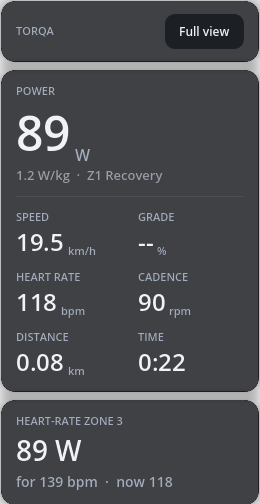
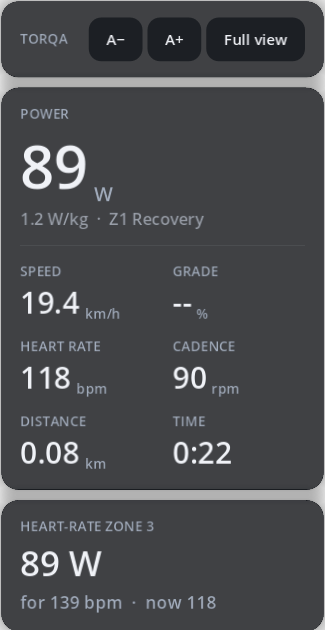
feat(overlay): larger by default, A−/A+ to size it (#124)
The overlay drew one interface unit per point, smaller than the HUD in
the full-screen ride view on large screens and hard to read from the
saddle. It now opens as large as the full-screen ride view draws, and at
least 1.25 times that; A− and A+ in its bar (or − and + while it has the
focus) make it a step smaller or larger, text and all, keeping the corner
nearest the screen's edge in place. The grip still resizes it. The size
the rider chose is kept with the overlay's place in settings.toml, and
the window is sized from it for whatever the content needs next time.

Closes #124

diff --git a/core/torqa-storage/src/profiles.rs b/core/torqa-storage/src/profiles.rs
@@ -163,8 +163,8 @@ struct Settings {
     overlay: Option<OverlayWindow>,
 }
 
-/// Where the overlay window is on screen (R55), in screen pixels.
-#[derive(Debug, Clone, Copy, PartialEq, Eq, Serialize, Deserialize)]
+/// Where the overlay window is on screen (R55), in screen pixels, and how large it draws.
+#[derive(Debug, Clone, Copy, PartialEq, Serialize, Deserialize)]
 pub struct OverlayWindow {
     /// Left edge.
     pub x: i32,
@@ -174,6 +174,10 @@ pub struct OverlayWindow {
     pub width: u32,
     /// Height.
     pub height: u32,
+    /// How large the overlay draws its figures (#124): 1 is one interface unit per point.
+    /// `None` in settings from before it could be chosen, which take the default.
+    #[serde(default, skip_serializing_if = "Option::is_none")]
+    pub scale: Option<f64>,
 }
 
 /// How detailed the 3D world is drawn (R43): more detail needs a stronger GPU. Medium holds
@@ -470,6 +474,7 @@ mod tests {
             y: 40,
             width: 320,
             height: 480,
+            scale: Some(1.75),
         };
 
         set_overlay_window(&dir, window).unwrap();
@@ -477,6 +482,28 @@ mod tests {
         assert_eq!(overlay_window(&dir), Some(window));
         assert_eq!(graphics_quality(&dir), GraphicsQuality::High);
         assert_eq!(GraphicsQuality::from_name("epic"), None);
+    }
+
+    #[test]
+    fn an_overlay_remembered_before_its_size_could_be_chosen_keeps_its_place() {
+        let dir = temp_dir("overlay-before-scale");
+        std::fs::create_dir_all(&dir).unwrap();
+        std::fs::write(
+            dir.join(SETTINGS_FILE),
+            "[overlay]\nx = 10\ny = 20\nwidth = 300\nheight = 400\n",
+        )
+        .unwrap();
+
+        assert_eq!(
+            overlay_window(&dir),
+            Some(OverlayWindow {
+                x: 10,
+                y: 20,
+                width: 300,
+                height: 400,
+                scale: None,
+            })
+        );
     }
 
     #[test]

diff --git a/core/torqa-gd/src/lib.rs b/core/torqa-gd/src/lib.rs
@@ -640,9 +640,21 @@ impl TorqaApp {
             })
     }
 
-    /// Remembers where the overlay is on screen; ignores empty rectangles.
+    /// How large the overlay draws its figures (#124), 1 being one interface unit per point;
+    /// 0 before it was first chosen.
     #[func]
-    fn set_overlay_window(&mut self, rect: Rect2i) {
+    fn overlay_scale(&self) -> f64 {
+        self.app
+            .as_ref()
+            .and_then(App::overlay_window)
+            .and_then(|w| w.scale)
+            .unwrap_or(0.0)
+    }
+
+    /// Remembers where the overlay is on screen and how large it draws (`scale`, as in
+    /// `overlay_scale()`); ignores empty rectangles.
+    #[func]
+    fn set_overlay_window(&mut self, rect: Rect2i, scale: f64) {
         let (Ok(width), Ok(height)) = (u32::try_from(rect.size.x), u32::try_from(rect.size.y))
         else {
             return;
@@ -655,6 +667,7 @@ impl TorqaApp {
             y: rect.position.y,
             width,
             height,
+            scale: (scale > 0.0).then_some(scale),
         };
         self.command(|app| app.set_overlay_window(window));
     }

diff --git a/docs/overlay.md b/docs/overlay.md
@@ -21,11 +21,15 @@ a workout, go back to the full view and use *Settings* → *Finish & save*.
 ## Moving and resizing
 
 - Drag the overlay by its top bar (with **Torqa** on it).
+- **A+** and **A−** in the bar, or **+** and **−** while the overlay has the focus, make it a
+  step larger or smaller, text and all. The corner nearest the screen's edge stays put.
 - Drag the grip in the bottom right corner to resize it; the figures grow and shrink with it.
 - Clicks beside the HUD go to the window below.
 
-The overlay opens where it was the last time, also after a restart (if that place is still on
-a screen); the first time at the top right of the screen.
+The overlay opens where it was the last time and as large as you left it, also after a restart
+(if that place is still on a screen). The first time it opens at the top right of the screen,
+as large as the HUD in the full-screen ride view and at least 1.25 times its normal size, to be
+read from the saddle.
 
 ## Limits
 
